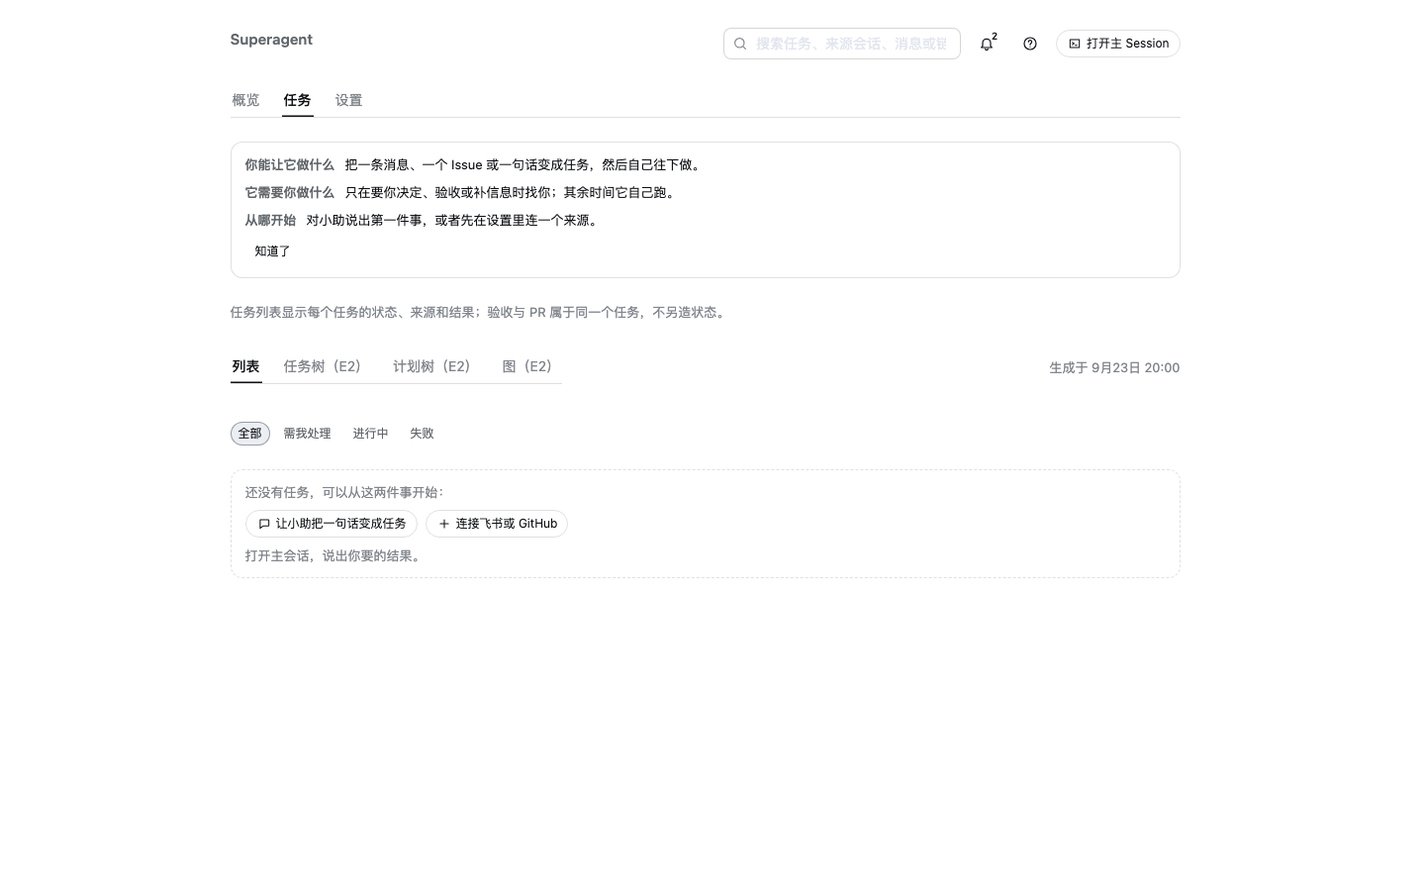
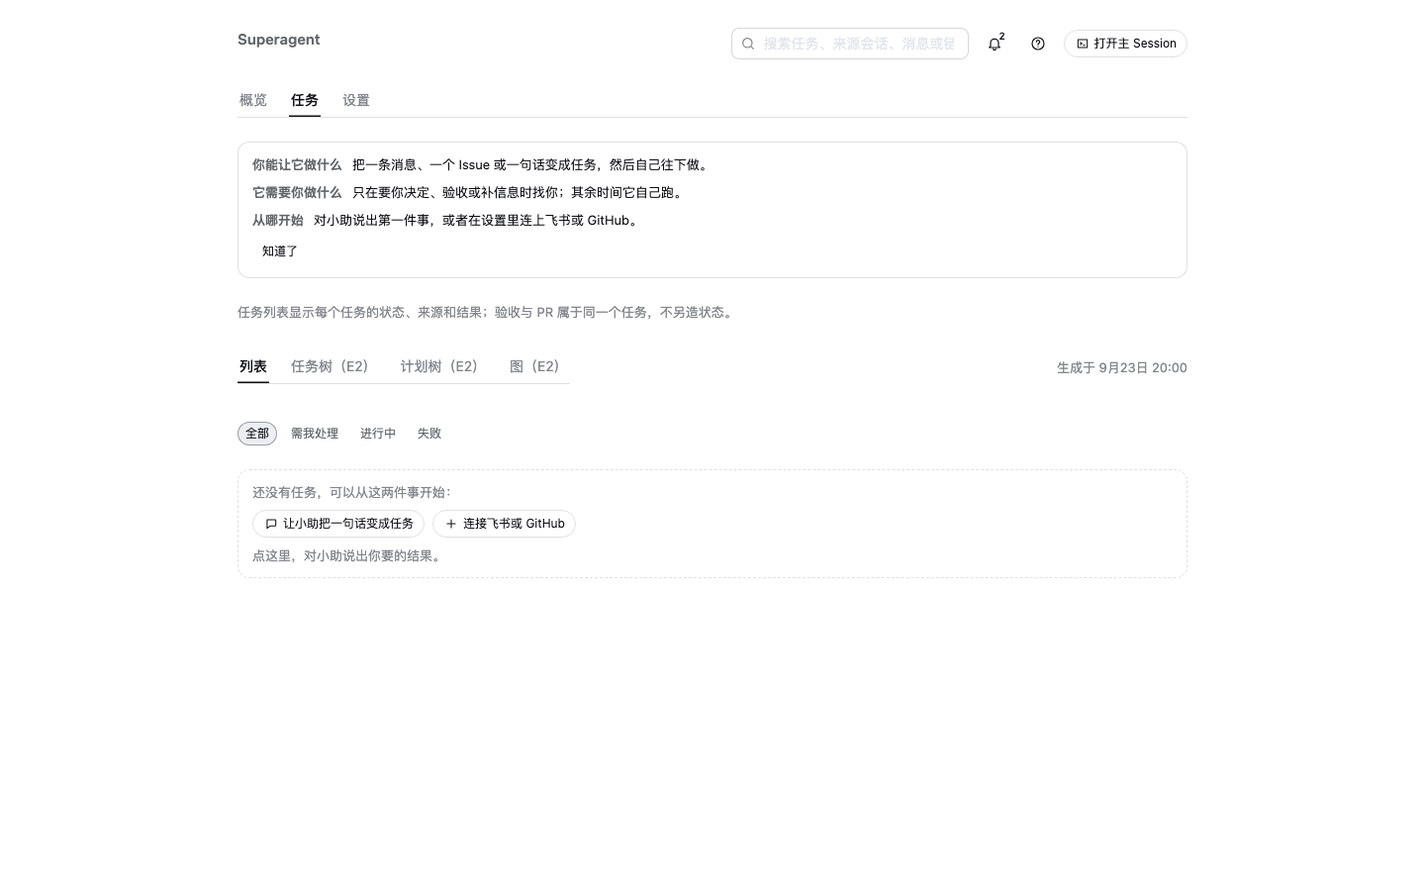
fix(ui): address batch 2 review findings
Lead the deepened detail with decision, result, next step, timing, goal and owner; keep child and upstream owners in human words; fold child deliverables into their report; drop the self Settings button inside Settings; return to the last operations group; add explicit detail and first-use rollback tests.

diff --git a/packages/dsh/src/client/task-detail.tsx b/packages/dsh/src/client/task-detail.tsx
@@ -58,6 +58,7 @@ const deliverableLink = (item: TaskView['deliverables'][number]): string | undef
 /** How soon this level is expected to move, phrased from what the record actually knows rather than invented. */
 export function estimateText(task: TaskView, t: T): string {
   if (task.status === 'done') return t('taskDetailEstimateEnded')
+  if (task.status === 'blocked' && !task.goal.decision) return t('taskDetailEstimateBlocked')
   if (task.status === 'review' || task.status === 'answer' || task.status === 'delivery' || task.status === 'failed'
     || task.status === 'blocked') return t('taskDetailEstimateWaiting')
   const elapsed = duration(task.durationMs, t('lang'))
@@ -87,7 +88,9 @@ function Decision({ task, t, onOpenTicket }: { task: TaskView; t: T; onOpenTicke
     {decision ? <>
       <p className="dt-task-report"><Tag tone="warning">{t('tasksDecision')}</Tag>
         <span>{decision.kind === 'answer' ? t('taskHierarchyNextAnswer', { question: decision.question ?? t('noticeNoQuestion') })
-          : nextStep(task, t)}</span></p>
+          : decision.kind === 'review' ? t('taskDetailDecisionReview')
+            : decision.kind === 'delivery' ? t('taskDetailDecisionDelivery')
+              : decision.kind === 'blocked' ? t('taskDetailDecisionBlocked') : t('taskDetailDecisionFailed')}</span></p>
       <div className="dt-actions">
         <Button variant="outline" size="sm" icon={<Icon name="chevron-right" size={13} />} onClick={() => onOpenTicket(task.id)}>
           {t('taskDetailDecisionOpen')}</Button>
@@ -147,7 +150,8 @@ function Blocker({ task, t }: { task: TaskView; t: T }) {
   </div>
 }
 
-function Reports({ task, t }: { task: TaskView; t: T }) {
+function Reports({ task, t, v2 = false, profiles = [] }: { task: TaskView; t: T; v2?: boolean
+  profiles?: readonly ProfileRow[] }) {
   const resolution = task.delegation?.resolution
   return <>
     {task.parentTicketId ? <>
@@ -156,7 +160,8 @@ function Reports({ task, t }: { task: TaskView; t: T }) {
           {resolution?.kind === 'accepted' ? t('taskHierarchyParentAccepted')
             : resolution?.kind === 'cancelled' ? t('taskHierarchyParentRejected')
               : resolution?.kind === 'failed' ? t('taskHierarchyReportedFailed') : t('taskHierarchyWaitingParent')}</Tag>
-        {task.parentOwner && <span>{t('tasksRole.parentWorker')} · {profileText(t, task.parentOwner.profile)}</span>}
+        {task.parentOwner && <span>{t('tasksRole.parentWorker')} · {v2 ? ownerLabel(t, task.parentOwner.profile, profiles).text
+          : profileText(t, task.parentOwner.profile)}</span>}
         {resolution?.at && <span className="dt-hint">{when(resolution.at, t('lang'))}</span>}
       </p>
       {task.delegation?.orphaned && <p className="dt-task-report"><Tag tone="danger">{t('tasksNeedsOwner')}</Tag>
@@ -171,7 +176,7 @@ function Reports({ task, t }: { task: TaskView; t: T }) {
       {task.childSummary.unresolved > 0 && <Tag tone="warning">{task.childSummary.unresolved} {t('taskHierarchyReportsWaiting')}</Tag>}
       {task.childSummary.failed > 0 && <Tag tone="danger">{task.childSummary.failed} {t('taskHierarchyReportsFailed')}</Tag>}
     </p> : <p className="dt-hint">{t('tasksNoResult')}</p>}
-    {task.review?.summary && <p className="dt-task-report"><span>{task.review.summary}</span></p>}
+    {!v2 && task.review?.summary && <p className="dt-task-report"><span>{task.review.summary}</span></p>}
     {task.review?.accepted && <p className="dt-task-report"><Tag tone="success">{t('taskHierarchyAccepted')}</Tag>
       <span>{when(task.review.accepted.at, t('lang'))}</span></p>}
     {task.delegation?.resolution?.reason && <p className="dt-task-report"><span>{task.delegation.resolution.reason}</span></p>}
@@ -270,6 +275,7 @@ export function TaskDetail({ task, store, onBack, onOpenTicket }: { task: TaskVi
         onClick={() => onOpenTicket(focus.id)}>{t('tasksOpen')}</Button>
     </div>
     {v2 && <Decision task={focus} t={t} onOpenTicket={onOpenTicket} />}
+    {v2 && <Done task={focus} t={t} onOpenTicket={onOpenTicket} />}
     <div className="dt-task-detail-next"><strong>{t('taskHierarchyNext')}</strong><span>{nextStep(focus, t)}</span>
       {!v2 && (focus.status === 'failed' || focus.status === 'delivery') && <ConfirmRetry task={focus} />}</div>
     {v2 && <p className="dt-task-detail-estimate"><strong>{t('taskDetailNextEstimate')}</strong><span>{estimateText(focus, t)}</span></p>}
@@ -279,7 +285,6 @@ export function TaskDetail({ task, store, onBack, onOpenTicket }: { task: TaskVi
       {!v2 && focus.goal.decision && <p className="dt-task-report"><Tag tone="warning">{t('tasksDecision')}</Tag>
         <span>{focus.goal.decision.question ?? valueLabel(t, 'stage', focus.goal.decision.kind ?? '')}</span></p>}
     </div>
-    {v2 && <Done task={focus} t={t} onOpenTicket={onOpenTicket} />}
     {v2 ? <Owner task={focus} t={t} profiles={profiles} /> : <div className="dt-task-detail-section">
       <h4>{t('taskHierarchyOwner')}</h4>
       {focus.form === 'lightweight' ? <Hint>{t('tasksLightweightNote')}</Hint> : <>
@@ -310,7 +315,7 @@ export function TaskDetail({ task, store, onBack, onOpenTicket }: { task: TaskVi
     </div>
     <div className="dt-task-detail-section">
       <h4>{t('taskHierarchyReports')}</h4>
-      <Reports task={focus} t={t} />
+      <Reports task={focus} t={t} v2={v2} profiles={profiles} />
     </div>
     <div className="dt-task-detail-section">
       <h4>{t('taskHierarchySession')}</h4>

diff --git a/packages/dsh/src/client/locales.ts b/packages/dsh/src/client/locales.ts
@@ -309,6 +309,11 @@ const TEXT = {
   taskDetailOpenRecord: ['查看完整记录', 'Open full record'],
   taskDetailNextEstimate: ['预计', 'Expected'],
   taskDetailEstimateWaiting: ['等你处理后会继续；不处理会一直停在这里。', 'It continues after you act; until then it waits here.'],
+  taskDetailEstimateBlocked: ['等被卡住的原因处理完会继续；现在不需要你。', 'Resumes when the blocker clears; nothing is needed from you now.'],
+  taskDetailDecisionReview: ['请验收下面的结果：批准后继续，退回会返工。', 'Review the result below: approve to continue, or return it for changes.'],
+  taskDetailDecisionDelivery: ['请补交下面要求的产出物。', 'Provide the deliverable requested below.'],
+  taskDetailDecisionBlocked: ['请先处理被卡住的原因。', 'Clear the blocker first.'],
+  taskDetailDecisionFailed: ['上次失败了，请决定是否重试。', 'The last run failed; decide whether to retry.'],
   taskDetailEstimateWorking: ['还没有可靠的完成时间；有结果会通知你。', 'No reliable finish time yet; you will be notified when a result is ready.'],
   taskDetailEstimateElapsed: ['已经进行 {duration}。', 'Running for {duration}.'],
   taskDetailEstimateEnded: ['已结束。', 'Ended.'],
@@ -335,14 +340,14 @@ const TEXT = {
   firstUseNeedsText: ['只在要你决定、验收或补信息时找你；其余时间它自己跑。',
     'It asks only when you must decide, review or add information; otherwise it keeps working.'],
   firstUseStart: ['从哪开始', 'Where to start'],
-  firstUseStartText: ['对小助说出第一件事，或者先在设置里连一个来源。',
-    'Tell the assistant your first task, or connect a Source in Settings first.'],
+  firstUseStartText: ['对小助说出第一件事，或者在设置里连上飞书或 GitHub。',
+    'Tell the assistant your first task, or connect Feishu or GitHub in Settings.'],
   firstUseDismiss: ['知道了', 'Got it'],
   firstUseExamples: ['还没有任务，可以从这两件事开始：', 'No tasks yet. Start with one of these:'],
   firstUseExampleAsk: ['让小助把一句话变成任务', 'Ask the assistant to turn a sentence into a task'],
-  firstUseExampleAskHint: ['打开主会话，说出你要的结果。', 'Opens the main conversation so you can state the outcome you want.'],
+  firstUseExampleAskHint: ['点这里，对小助说出你要的结果。', 'Opens the conversation where you can tell the assistant the outcome you want.'],
   firstUseExampleSource: ['连接飞书或 GitHub', 'Connect Feishu or GitHub'],
-  firstUseExampleSourceHint: ['在设置 › 来源与集成里连接，之后消息会自动变成任务。',
+  firstUseExampleSourceHint: ['在设置里连接，之后消息会自动变成任务。',
     'Connect it in Settings › Sources; new messages then become tasks automatically.'],
   retryRequested: ['已请求重试。', 'Retry requested.'],
   // UX batch 1: notices.
@@ -448,9 +453,9 @@ const TEXT = {
   firstUseSection: ['首次使用说明', 'First-use notes'],
   firstUseSetting: ['打开时先说明能做什么、需要你什么、从哪开始', 'Explain what it does, what it needs and where to start'],
   firstUseHint: ['第一次打开面板时显示三行说明，读过一次就收起；没有任务时给出可点击的示例入口。',
-    'The task page explains the three points on first open and folds after one read; with no tasks it offers clickable starting points.'],
+    'The panel explains the three points on first open and folds after one read; with no tasks it offers clickable starting points.'],
   firstUseRestore: ['再显示一次首次说明', 'Show the first-use notes again'],
-  firstUseRestored: ['下次打开任务页会再显示一次。', 'They appear again the next time you open the task page.'],
+  firstUseRestored: ['下次打开面板会再显示一次。', 'They appear again the next time you open the panel.'],
   firstUseDisabled: ['这个部署已用 ux.firstUse.v1 关闭首次使用说明；空任务时只显示一句提示。',
     'This deployment disabled the first-use notes through ux.firstUse.v1; an empty task list shows the plain hint.'],
   notificationAutoDismissSetting: ['浮层自动收起', 'Close cards automatically'],

diff --git a/tests/panel-ux-second-batch.spec.tsx b/tests/panel-ux-second-batch.spec.tsx
@@ -20,6 +20,7 @@ function hierarchy(): TaskBoardView {
     origin: { source: 'conversation', triggerId: 'tr9', preview: '补迁移说明', at: '2026-09-23T00:00:00Z' },
     sources: [{ source: 'conversation', label: '主会话' }], execution: { assignments: 1 },
     owner: { role: 'owner', profile: { id: 'worker-plan', revision: 3 } },
+    parentOwner: { role: 'owner', profile: { id: 'worker-plan', revision: 2 } },
     delegation: { parentTicketId: 't1', rootTicketId: 't1', goal: '写迁移说明', attempt: 1, dispositions: [],
       resolution: { kind: 'failed', by: { source: 'dsh', id: 'worker-plan' }, at: '2026-09-23T01:00:00Z', reason: '缺少迁移目标' } },
     goal: { id: 't1-child', statement: '写迁移说明', state: { stage: 'waiting', action: 'blocked' }, results: [] },
@@ -65,7 +66,8 @@ it('opens the operations surfaces as Settings pages with grouped nav, icons and 
   // The operations list and its configuration share one page; the status list is the same read model as before.
   expect(text()).toContain(zh.statusTitle)
   expect(text()).toContain(zh.settingsOpsBoundary)
-
+  // The page is already inside Settings; it does not repeat the standalone "Settings" button.
+  expect(all('.dt-status-head button').map(button => button.textContent)).not.toContain(zh['tab.settings'])
 })
 
 it('opens triggers as a Settings page and keeps the source list as a direct deep link', async () => {
@@ -132,6 +134,7 @@ it('answers decision, result, next step with timing, owner and each child report
   expect(detail.textContent).toContain(zh.taskHierarchyNextReview)
   expect(detail.textContent).toContain(zh.taskDetailDone)
   expect(detail.textContent).toContain('已修好登录回归，等验收。')
+  expect(detail.textContent?.match(/已修好登录回归，等验收。/g)).toHaveLength(1)
   expect(detail.textContent).toContain(zh.taskDetailOpenDeliverable)
   expect(detail.querySelector('a[href="https://github.com/acme/widgets/pull/42/files"]')).not.toBeNull()
   expect(detail.textContent).toContain(zh.taskDetailNextEstimate)
@@ -150,6 +153,38 @@ it('answers decision, result, next step with timing, owner and each child report
   expect(report.textContent).toContain('写迁移说明')
   expect(report.textContent).toContain('缺少迁移目标')
   expect(report.querySelector('a')?.textContent).toBe(zh.taskDetailOpenDeliverable)
+  // Opening the child keeps the upstream owner in human words too.
+  await click(report.closest('li')!.querySelector<HTMLElement>('.dt-task-level-title')!)
+  expect(detail.textContent).toContain('迁移文案负责人 · 第 3 版')
+  expect(detail.textContent).not.toContain('worker-plan')
+})
+
+it('restores the first-batch detail and skips profile reads when ux.taskDetail.v2 is off', async () => {
+  defaults()
+  localStorage.setItem('ux.taskDetail.v2', 'off')
+  localStorage.setItem('ux.opsInSettings.v1', 'off')
+  server.tasks = hierarchy()
+  server.profiles = [{ id: 'worker-plan', title: '迁移文案负责人', description: '负责修改迁移与登录文案', role: 'worker',
+    lastBoundAt: undefined, activeRevision: 2, retiredRevisions: [], updatedBy: 'panel', contentHash: 'hash', moving: false }]
+  await mount()
+  await click(zh['tab.tasks'])
+  await click(all('.dt-tasks-row')[0]!)
+  await click(zh.taskHierarchyOpen)
+  const detail = document.querySelector<HTMLElement>('.dt-task-detail')!
+  expect(detail.querySelector('.dt-task-decision')).toBeNull()
+  expect(detail.textContent).toContain('worker-plan')
+  expect(server.requests.some(request => request.path === 'profiles')).toBe(false)
+})
+
+it('hides the first-use notes and examples when ux.firstUse.v1 is off', async () => {
+  defaults()
+  localStorage.setItem('ux.firstUse.v1', 'off')
+  server.tasks = { ...taskBoardView(), tasks: [], totals: { milestones: 0, tasks: 0, tickets: 0, open: 0, attention: 0 } }
+  await mount()
+  await click(zh['tab.tasks'])
+  expect(text()).not.toContain(zh.firstUseCanDo)
+  expect(document.querySelector('.dt-first-use-empty')).toBeNull()
+  expect(text()).toContain(zh.tasksEmpty)
 })
 
 it('shows the three first-use lines once and clickable starting points when there is no task', async () => {

diff --git a/packages/dsh/src/client/eval.tsx b/packages/dsh/src/client/eval.tsx
@@ -12,7 +12,8 @@ import { ConfigHistory, Field, Fields, ModelField, SourceField, numberOf, useBlo
 import { localized, valueLabel, when } from './text.ts'
 import { Hint, LabelValue, LoadMore, LoadState, Section, StatusHead } from './widgets.tsx'
 
-export function EvalStatus({ filter, window, paused }: { filter: DecisionFilter; window: '24h' | undefined; paused: boolean }) {
+export function EvalStatus({ filter, window, paused, embedded = false }: { filter: DecisionFilter; window: '24h' | undefined;
+  paused: boolean; embedded?: boolean }) {
   const { t, call, navigate } = usePanel()
   const [limit, setLimit] = useState(30)
   const { data, error } = usePoll(() => call('GET decisions', { query: { limit, kind: DECISION_KINDS[filter],
@@ -20,7 +21,7 @@ export function EvalStatus({ filter, window, paused }: { filter: DecisionFilter;
   const show = (key: DecisionFilter, last24h: boolean) => navigate({ page: 'eval', query: { ...key === 'work' ? {} : { filter: key },
     ...last24h ? { window: '24h' } : {} } }, true)
   return <>
-    <StatusHead hint={t('evalStatusIntro')} settings="eval" />
+    <StatusHead hint={t('evalStatusIntro')} {...embedded ? {} : { settings: 'eval' }} />
     {paused && <p className="dt-banner">
       {t('evalRecordsPaused')} <button type="button" className="dt-textlink"
         onClick={() => navigate({ page: 'execution' })}>{t('resumeWhere')}</button>

diff --git a/packages/dsh/src/client/execution.tsx b/packages/dsh/src/client/execution.tsx
@@ -13,8 +13,8 @@ import { localized, valueLabel } from './text.ts'
 import { ConfirmButton, Hint, LabelValue, LoadMore, LoadState, Section, StatusHead, When } from './widgets.tsx'
 import type { SpaceRow } from '../app/spaces.ts'
 
-export function ExecutionStatus({ filter: current, from, state, reload }: {
-  filter: TicketFilter; from?: TicketOrigin | undefined; state: StateView; reload: () => Promise<void>
+export function ExecutionStatus({ filter: current, from, state, reload, embedded = false }: {
+  filter: TicketFilter; from?: TicketOrigin | undefined; state: StateView; reload: () => Promise<void>; embedded?: boolean
 }) {
   const { t, call, navigate } = usePanel()
   const [limit, setLimit] = useState(20)
@@ -30,7 +30,7 @@ export function ExecutionStatus({ filter: current, from, state, reload }: {
     : { tone: 'ongoing', label: t('executorRunning') }
   const action = paused ? 'resumeProcessing' : 'pauseProcessing'
   return <>
-    <StatusHead hint={t('executionStatusIntro')} settings="execution" />
+    <StatusHead hint={t('executionStatusIntro')} {...embedded ? {} : { settings: 'execution' }} />
     <div className="dt-row-meta dt-status-line">
       <span className="dt-status-text" data-state={status.tone}>{status.label}</span>
       {!state.setup.problem && <>

diff --git a/packages/dsh/src/client/route.ts b/packages/dsh/src/client/route.ts
@@ -2,6 +2,7 @@
 import { THREAD_FILTERS, TICKET_FILTERS, type ThreadFilter, type TicketFilter, type TicketOrigin } from '../app/api.ts'
 import type { SetupPlace } from '../setup.ts'
 import { DECISION_FILTERS, type DecisionFilter } from './api.ts'
+import { opsInSettings } from './features.ts'
 import type { T } from './text.ts'
 
 export const TABS = ['overview', 'tasks', 'source', 'trigger', 'eval', 'execution', 'settings'] as const
@@ -56,7 +57,7 @@ export function parseRoute(value: unknown): Route | undefined {
 const ROUTE_KEY = 'dsh-superagent/route'
 export interface Location { route: Route; stack: Route[]; group?: SettingsGroup | undefined }
 export const lastSettingsGroup = ({ route, group }: Location): SettingsGroup => route.page === 'settings' ? route.query.group
-  : group ?? 'source'
+  : isOpsTab(route.page) && opsInSettings() ? route.page : group ?? 'source'
 export function initialLocation(): Location {
   try {
     const stored = JSON.parse(sessionStorage.getItem(ROUTE_KEY) ?? 'null') as { route?: unknown; stack?: unknown; group?: unknown } | null

diff --git a/packages/dsh/src/client/source.tsx b/packages/dsh/src/client/source.tsx
@@ -159,14 +159,14 @@ function SourceRow({ source }: { source: SourceStatusRow }) {
   </li>
 }
 
-export function SourceStatus() {
+export function SourceStatus({ embedded = false }: { embedded?: boolean } = {}) {
   const { t, call, navigate } = usePanel()
   const { setup } = usePanelData()
   const { data, error } = usePoll(() => call('GET sources'), [])
   // Global deployment setup problems halt all Sources and show at the top; Source-specific setup problems show on that Source's row.
   const elsewhere = setup?.problem?.place === 'deployment' ? setup.problem : undefined
   return <div className="dt-form">
-    <StatusHead hint={t('sourceStatusIntro')} settings="source" />
+    <StatusHead hint={t('sourceStatusIntro')} {...embedded ? {} : { settings: 'source' }} />
     {elsewhere && <p className="dt-error">
       <SetupMessage problem={elsewhere} lead /> <button type="button" className="dt-textlink"
         onClick={() => navigate(setupPage(elsewhere.place))}>{t('setupFixLink')}</button>

diff --git a/packages/dsh/src/client/settings.tsx b/packages/dsh/src/client/settings.tsx
@@ -145,12 +145,12 @@ export function SettingsPage({ group, query, state, deploymentForm, triggerFilte
   const groups = settingsGroups(consolidated)
   const live = consolidated ? (() => {
     switch (group) {
-      case 'source': return <SourceStatus />
+      case 'source': return <SourceStatus embedded />
       case 'trigger': return <TriggerStatus filter={triggerFilter ?? 'subscribed'} />
       case 'eval': return <EvalStatus filter={(ops.filter as DecisionFilter | undefined) ?? 'work'} window={ops.window}
-        paused={!!state?.paused} />
+        paused={!!state?.paused} embedded />
       case 'execution': return state ? <ExecutionStatus filter={(ops.filter as TicketFilter | undefined) ?? 'open'}
-        from={ops.from} state={state} reload={reload} /> : <p className="dt-hint">{t('loading')}</p>
+        from={ops.from} state={state} reload={reload} embedded /> : <p className="dt-hint">{t('loading')}</p>
       default: return null
     }
   })() : null

diff --git a/docs/007-architecture.md b/docs/007-architecture.md
@@ -588,7 +588,7 @@ The domain kernel is the workspace package `packages/kernel` (`@superagent/kerne
 | `tests/panel-overview.spec.tsx`, `panel-source.spec.tsx`, `panel-trigger.spec.tsx`, `panel-eval.spec.tsx`, `panel-execution.spec.tsx`, `panel-timeline.spec.tsx` | Each page of the panel, against a fake management API answered by route; the Source card of a fixture that supplies only a manifest, including its sign-in, health entries and polling default; a review-stage Ticket's preview and approval, the same Ticket without a preview showing no approval, and a Ticket's read-only audit timeline (including when it cannot be read) |
 | `tests/panel-notifications.spec.tsx` | The notice layer: unread cursor and grouped drawer, three-card limit, in-place approval and Source disable, folded system notice details, overlay/drawer rollback and the local auto-close preference |
 | `tests/panel-task-hierarchy.spec.tsx` | The task hierarchy: entry from the selected row, goal/owner profile/one child level/deliverables/blocker/upward report/Session, E2 fold and the compact fallback when the flag is off |
-| `tests/panel-ux-second-batch.spec.tsx` | The second UX batch: the three-entry default surface, the four operations Settings pages with grouped nav/icons/descriptions and direct links, a record detail without a selected tab, the seven-entry rollback, the deepened task detail's decision/result/link/timing/human owner/child report, its rollback, and first-use notes, empty-state entries and the Settings restore |
+| `tests/panel-ux-second-batch.spec.tsx` | The second UX batch: the three-entry default surface, the four operations Settings pages with grouped nav/icons/descriptions and direct links, a record detail without a selected tab, the seven-entry rollback, the deepened task detail's decision/result/link/timing/human owner/child report, its rollback, and first-use notes, empty-state entries, the Settings restore and both rollbacks |
 | `tests/novice-walkthrough.spec.tsx` | The C4.5 first-time path recorded in `docs/runbooks/novice-walkthrough.md`: a review-stage delivery on the overview opens its ticket and approves the current revision without the task tree |
 | `tests/panel-approval.spec.tsx` | The overview's approval queue: the action, object and consequence each row shows, a lower-level grant, deny, the quiet empty state and the latency figure |
 | `tests/panel-settings.spec.tsx`, `panel-prompts.spec.tsx`, `panel-deployment.spec.tsx`, `panel-panel.spec.tsx` | The settings groups, drafts and history, the prompts, the Deployment page, and the panel's search, glossary and route memory |

diff --git a/docs/024-ux-second-batch.zh.md b/docs/024-ux-second-batch.zh.md
@@ -28,7 +28,7 @@
 ### 2.2 任务详情
 
 - 详情仍是 `GET tasks` / `GET tasks/:id?depth=1` 的客户端投影，不新增服务端字段或第二个聚合。
-- 顺序按人的问题排列：决定 → 下一步与预计 → 目标 → 做了什么 → 谁在做 → 子任务 → 阻断 → 向上汇报 → 执行会话 → E2。
+- 顺序按人的问题排列：决定 → 做了什么 → 下一步与预计 → 目标 → 谁在做 → 子任务 → 阻断 → 向上汇报 → 执行会话 → E2。
 - 「需要你决定」只来自 `goal.decision`：回答、验收、补交付、恢复被卡住/未完成。没有决定时写「不需要你做什么」，并说明有事会再找；不把子任务等待上级判断误写成人要处理。
 - 「做了什么」优先用当前 review 的摘要，其次用最近一份产出物的摘要；产出物有 `http(s)` 地址时直接打开，否则提供「查看完整记录」进入任务页。没有结果时写还没有可看的结果，不伪造完成语。
 - 「预计」只写记录能支持的事：等人处理、已结束、还在跑且没有可靠完成时间；有已用时长时附上，不编造 ETA。
@@ -67,7 +67,7 @@
 - `pnpm typecheck`
 - `pnpm vitest run tests/panel-ux-second-batch.spec.tsx tests/panel-overview.spec.tsx tests/panel-settings.spec.tsx tests/panel-task-hierarchy.spec.tsx tests/panel-tasks.spec.tsx tests/panel-execution.spec.tsx tests/panel-eval.spec.tsx tests/panel-source.spec.tsx`
 - `pnpm check`（tracking、arch、lint、全量测试、build、bundle size）；新增客户端界面使 `packages/dsh/lib/client.js` 从 650 KB 预算增到 686 KB，本次把该文件预算调到 700 KB、总预算调到 1.72 MB，仍由 `pnpm check:size` 守门
-- 新增/更新的面板测试覆盖：默认只留三个一级入口；四个系统页的分组/图标/说明与直接链接；七个入口回退；带 id 的详情不选中标签；任务详情的决定、结果、链接、预计、人话负责人与子任务展开；首次说明只出现一次、示例入口、从设置恢复说明。
+- 新增/更新的面板测试覆盖：默认只留三个一级入口；四个系统页的分组/图标/说明与直接链接；七个入口回退；带 id 的详情不选中标签；任务详情的决定、结果、链接、预计、人话负责人、子任务汇报与子任务详情不出现内部 id；任务详情 v2 回退时不请求 Profile 列表；首次说明只出现一次、示例入口、从设置恢复说明，以及关闭 `ux.firstUse.v1` 后回到纯文字空态。
 
 ### 5.1 视觉证据
 
